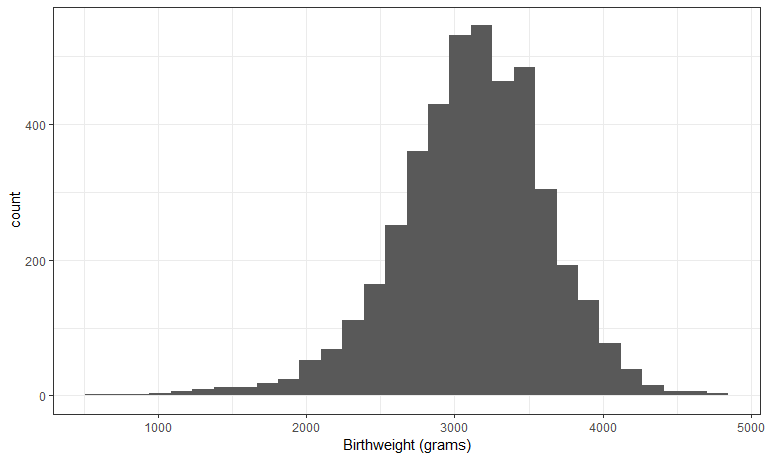
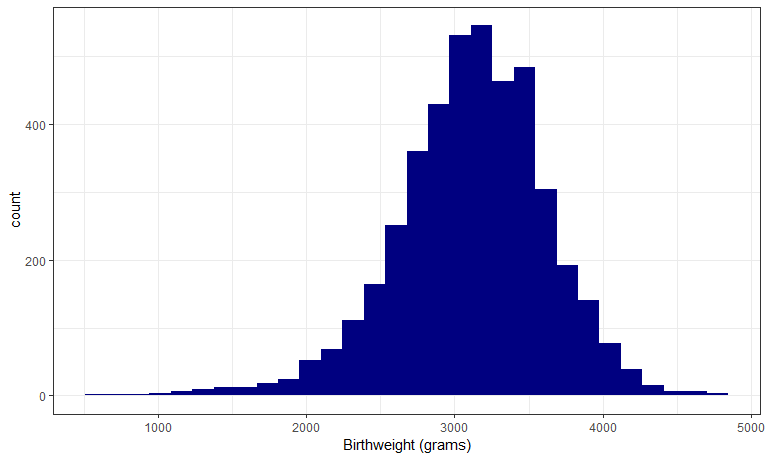
finnished the major part.

Changed region(s): [[0.1875, 0.0304, 0.9375, 0.8826]]

diff --git a/p8105_hw6_hh2767.md b/p8105_hw6_hh2767.md
@@ -344,7 +344,7 @@ Next, I will check the distribution of the outcome(birthweight).
 ``` r
 birthweight_model %>% 
   ggplot(aes(x = bwt)) + 
-  geom_histogram() + 
+  geom_histogram(fill = "navy") + 
   labs( x = "Birthweight (grams)")
 ## `stat_bin()` using `bins = 30`. Pick better value with `binwidth`.
 ```
@@ -468,3 +468,50 @@ As the plot shows, when fitted value is above 2000 grams, which is the most comm
 
 Comparing the model with two others
 -----------------------------------
+
+In this part, I will compare the following three models:
+
+1.  The model that I established in last section:
+
+birthwtfit\_my : `bwt` ~ `babysex` + `bhead` + `blength` + `fincome` +`frace` + `gaweeks` + `mrace` + `ppbmi` + `smoken` + `wtgain`
+
+1.  A model using length at birth and gestational age as predictors (main effects only):
+
+birthwtfit\_1 : `bwt` ~ `blength` + `gaweeks`
+
+1.  A model using head circumference, length, sex, and all interactions (including the three-way interaction) between these:
+
+birthwtfit\_2 : `bwt` ~ `babysex` + `blength` + `bhead` + `babysex * blength` + `babysex * bhead` + `blength * bhead` + `babysex * blength * bhead`
+
+``` r
+  
+cv_bwt =
+    crossv_mc(birthweight_model, 100) %>% 
+    mutate(
+         train = map(train, as_tibble),
+         test = map(test, as_tibble)
+         ) %>% 
+    mutate(
+        birthwtfit_my = map(train, ~lm(bwt ~ babysex + bhead + blength + fincome +frace + gaweeks + mrace + ppbmi + smoken + wtgain, data = .x)),
+        birthwtfit_1 = map(train, ~lm(bwt ~ blength + gaweeks, data = .x)),
+        birthwtfit_2 = map(train, ~lm(bwt ~ babysex + blength + bhead + babysex * blength + babysex * bhead + blength * bhead + babysex * blength * bhead, data = .x))
+        ) %>% 
+    mutate(
+        rmse_birthwtfit_my = map2_dbl(birthwtfit_my, test, ~rmse(model = .x, data = .y)),
+        rmse_birthwtfit_1 = map2_dbl(birthwtfit_1, test, ~rmse(model = .x, data = .y)),
+        rmse_birthwtfit_2 = map2_dbl(birthwtfit_2, test, ~rmse(model = .x, data = .y))
+    )
+
+cv_bwt %>% 
+  select(starts_with("rmse")) %>% 
+  gather(key = model, value = rmse) %>% 
+  mutate(model = str_replace(model, "rmse_", ""),
+         model = fct_inorder(model)) %>% 
+  ggplot(aes(x = model, y = rmse, fill = model)) + 
+    geom_violin() +
+    labs(title = "Violin plots of rmse")
+```
+
+<img src="p8105_hw6_hh2767_files/figure-markdown_github/unnamed-chunk-11-1.png" width="90%" />
+
+Based on these results, the model I made has the lowest rmse, which means it has the best predictive accuracy among the three. The model `birthwtfit_2` has slightly lower predictive accuracy, and the model`birthwtfit_1` is the least accurate. Therefore, I will go with the model I made.
